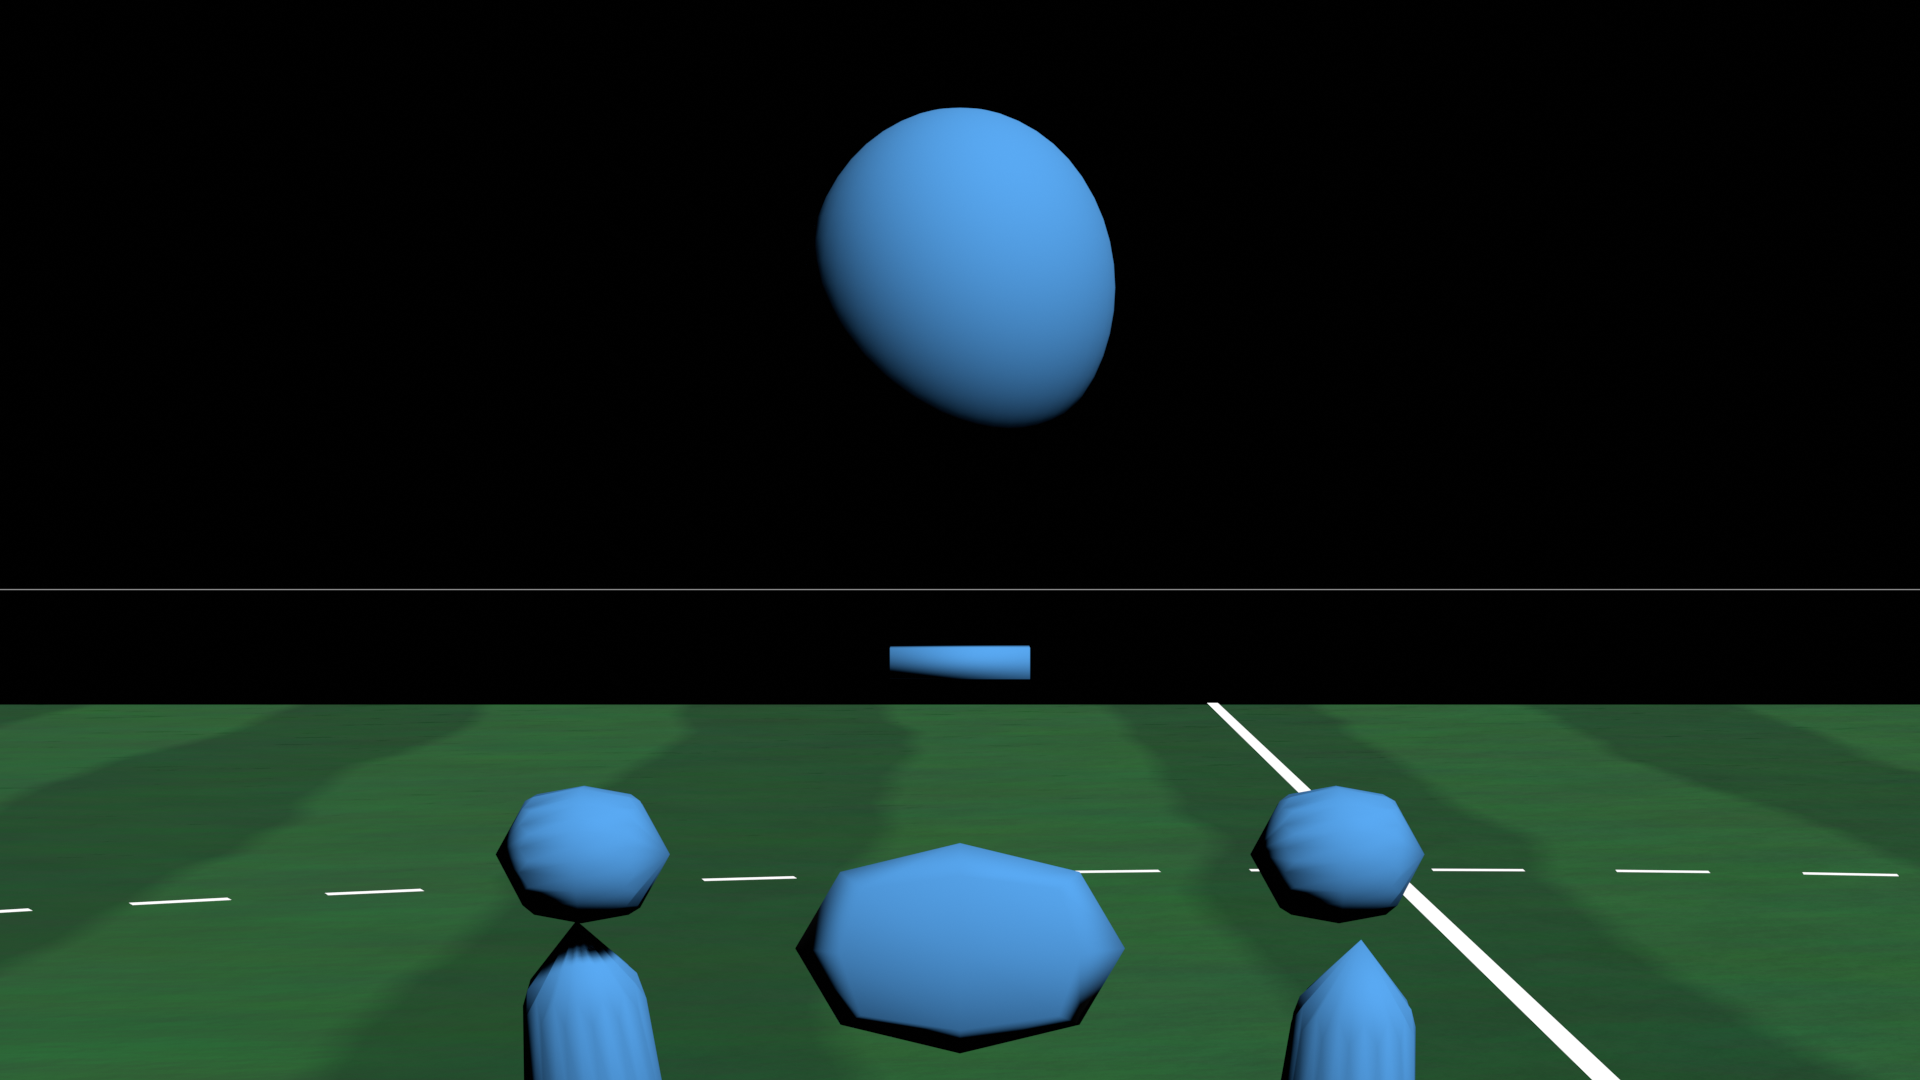
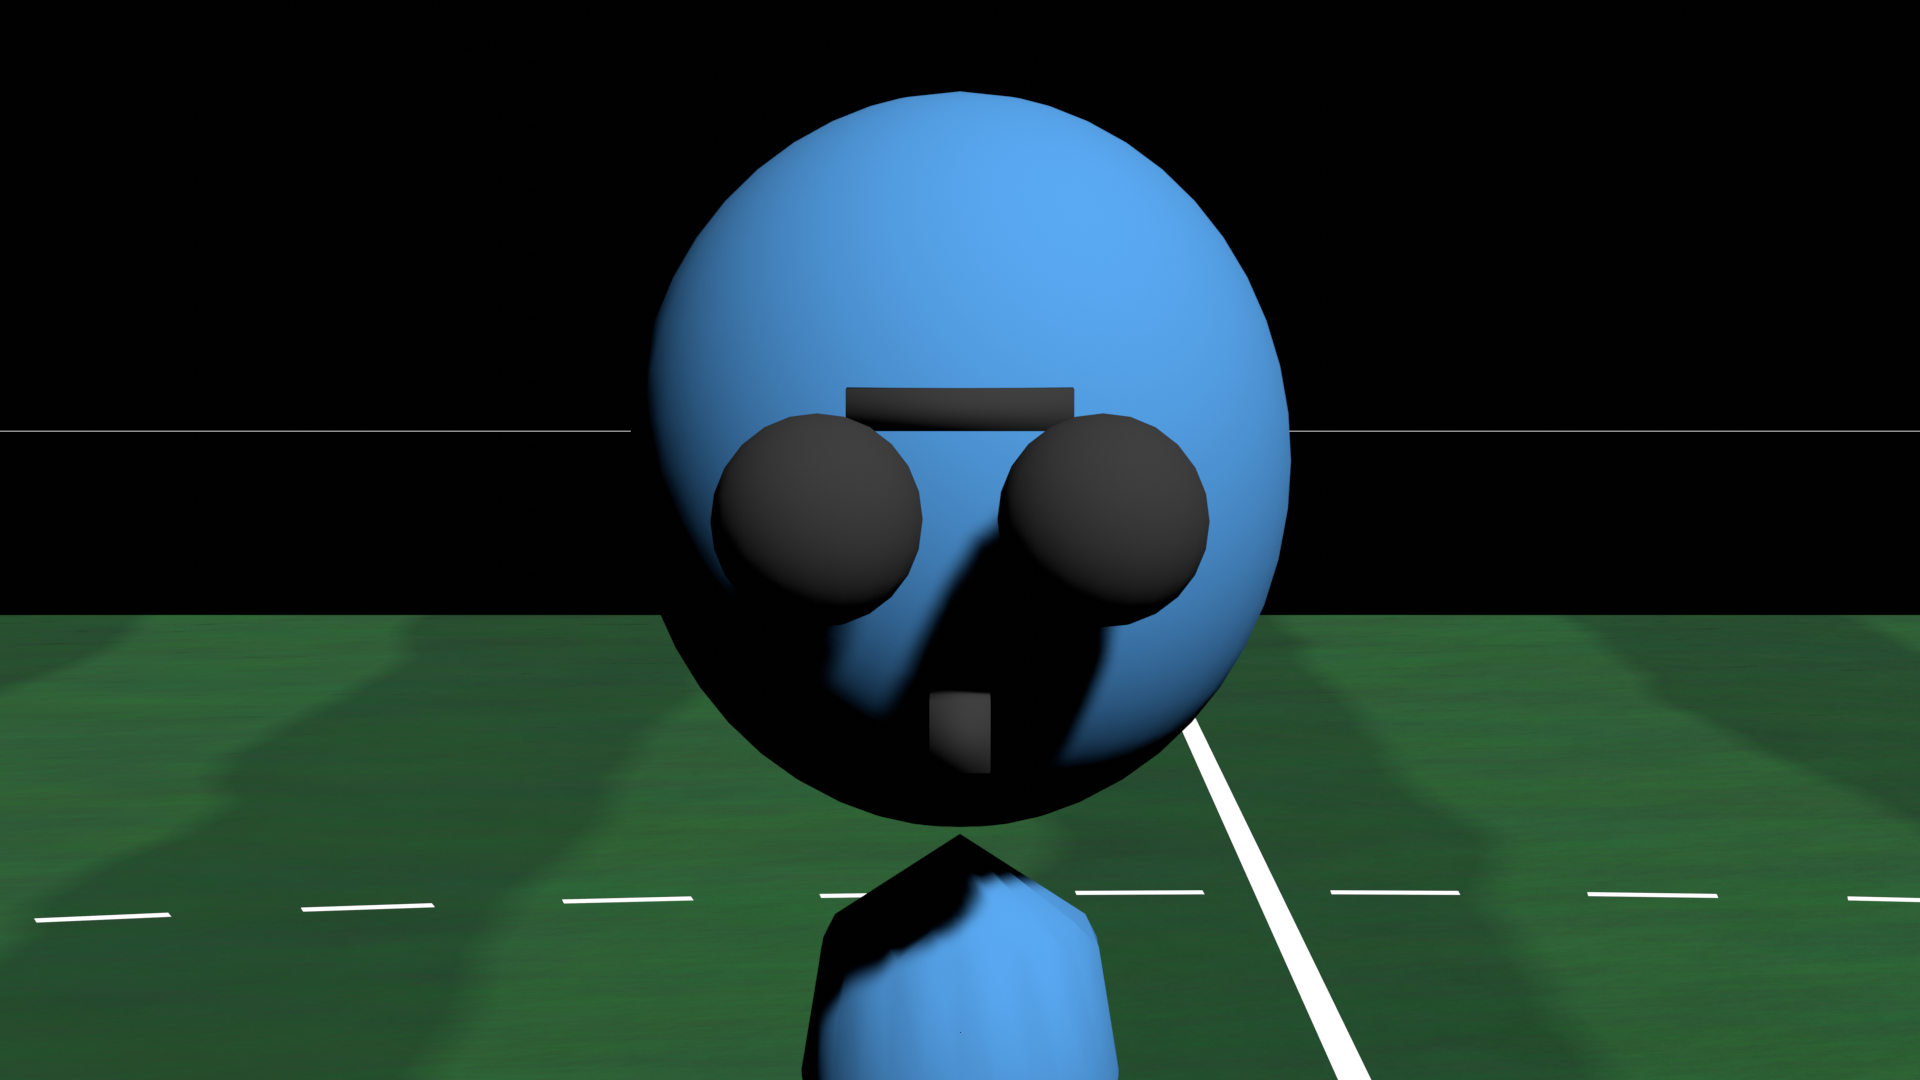
Simplify players to basic humanoids with face and limbs

diff --git a/blender/scenes/build_player.py b/blender/scenes/build_player.py
@@ -1,10 +1,16 @@
 # SPDX-License-Identifier: MIT
-"""再現CGメーカー風 人型キャラ（赤・青）— フィールドスケール対応"""
+"""簡易人型キャラ（赤・青）— 頭＋胴＋手足＋簡易顔
+
+要望に合わせて:
+- 服パーツは作らない
+- 簡易的な顔（鼻・眉）
+- 両手足が付いて「人の形」に見える
+"""
 
 from __future__ import annotations
 
 import math
-from typing import Dict, Literal, Tuple
+from typing import Dict, Tuple
 
 import bpy
 from mathutils import Euler, Vector
@@ -16,9 +22,6 @@ S = _SCALE
 
 TEAM_BLUE = (0.10, 0.40, 0.90, 1.0)
 TEAM_RED = (0.88, 0.12, 0.20, 1.0)
-
-BodyType = Literal["male", "female"]
-
 
 def _make_cg_material(name: str, color: Tuple[float, float, float, float]) -> bpy.types.Material:
     mat = make_flat_material(name, color)
@@ -119,94 +122,88 @@ def _add_sphere(
     return obj
 
 
-def _build_head(
-    name: str,
-    mat: bpy.types.Material,
-    joint: bpy.types.Object,
-    body_type: BodyType,
-) -> None:
-    r = 0.108 * S
-    _add_sphere(f"{name}_head", r, Vector((0, 0, 0.10 * S)), mat, joint, Vector((0.94, 1.0, 1.06)), subdiv=1)
-    # 鼻（前に出る）
+def _build_head(name: str, mat: bpy.types.Material, joint: bpy.types.Object) -> None:
+    """頭＋簡易顔（鼻・眉）"""
+    r = 0.11 * S
+    _add_sphere(
+        f"{name}_head",
+        r,
+        Vector((0, 0, 0.12 * S)),
+        mat,
+        joint,
+        Vector((0.96, 1.0, 1.04)),
+        subdiv=1,
+    )
+    # 顔パーツは少しだけ暗くして視認性を上げる
+    # 目鼻は黒寄りでハッキリ見せる
+    face_mat = _make_cg_material(f"{name}_face_mat", (0.05, 0.05, 0.05, 1.0))
     _add_box(
         f"{name}_nose",
-        Vector((0.032 * S, 0.065 * S, 0.038 * S)),
-        Vector((0, 0.10 * S, 0.06 * S)),
-        mat, joint, subdiv=0,
+        Vector((0.034 * S, 0.075 * S, 0.040 * S)),
+        Vector((0, -0.125 * S, 0.05 * S)),
+        face_mat,
+        joint,
+        subdiv=0,
     )
-    # 眉
     _add_box(
         f"{name}_brow",
-        Vector((0.12 * S, 0.028 * S, 0.024 * S)),
-        Vector((0, 0.085 * S, 0.13 * S)),
-        mat, joint, subdiv=0,
+        Vector((0.13 * S, 0.032 * S, 0.024 * S)),
+        Vector((0, -0.105 * S, 0.14 * S)),
+        face_mat,
+        joint,
+        subdiv=0,
     )
-    # 顎〜口
-    _add_box(
-        f"{name}_mouth",
-        Vector((0.055 * S, 0.03 * S, 0.018 * S)),
-        Vector((0, 0.09 * S, 0.0)),
-        mat, joint, subdiv=0,
+    # 目（小さい球を2つ）
+    _add_sphere(
+        f"{name}_eye_l",
+        0.030 * S,
+        Vector((-0.040 * S, -0.135 * S, 0.11 * S)),
+        face_mat,
+        joint,
+        subdiv=0,
     )
-    if body_type == "female":
-        _add_sphere(
-            f"{name}_hair_vol",
-            r * 0.95,
-            Vector((0, -0.035 * S, 0.12 * S)),
-            mat, joint, Vector((1.02, 0.90, 1.02)), subdiv=1,
-        )
+    _add_sphere(
+        f"{name}_eye_r",
+        0.030 * S,
+        Vector((0.040 * S, -0.135 * S, 0.11 * S)),
+        face_mat,
+        joint,
+        subdiv=0,
+    )
 
 
-def _build_torso_clothing(
-    name: str,
-    mat: bpy.types.Material,
-    parent: bpy.types.Object,
-    body_type: BodyType,
-) -> None:
-    if body_type == "male":
-        # 半袖シャツ（肩幅広め）
-        _add_box(
-            f"{name}_shirt",
-            Vector((0.50 * S, 0.14 * S, 0.32 * S)),
-            Vector((0, 0, 1.04 * S)),
-            mat, parent, subdiv=1,
-        )
-        # 襟元
-        _add_box(
-            f"{name}_collar",
-            Vector((0.18 * S, 0.06 * S, 0.04 * S)),
-            Vector((0, 0.04 * S, 1.22 * S)),
-            mat, parent, subdiv=0,
-        )
-        for side, tag in ((-1, "L"), (1, "R")):
-            _add_capsule(
-                f"{name}_sleeve_{tag}",
-                0.048 * S, 0.12 * S,
-                Vector((side * 0.24 * S, 0, 1.10 * S)),
-                mat, parent, Euler((0, math.pi / 2, 0)), subdiv=1,
-            )
-        hip_w = 0.44 * S
-    else:
-        # 女性：トップス＋くびれ
-        _add_box(
-            f"{name}_top",
-            Vector((0.40 * S, 0.12 * S, 0.30 * S)),
-            Vector((0, 0, 1.06 * S)),
-            mat, parent, subdiv=1,
-        )
-        _add_box(
-            f"{name}_waist",
-            Vector((0.32 * S, 0.10 * S, 0.12 * S)),
-            Vector((0, 0, 0.86 * S)),
-            mat, parent, subdiv=1,
-        )
-        hip_w = 0.38 * S
-
-    _add_box(
-        f"{name}_pants",
-        Vector((hip_w, 0.13 * S, 0.24 * S)),
-        Vector((0, 0, 0.70 * S)),
-        mat, parent, subdiv=1,
+def _build_torso(name: str, mat: bpy.types.Material, parent: bpy.types.Object) -> None:
+    """胴体（服なし・単純形状）"""
+    _add_capsule(
+        f"{name}_torso",
+        0.12 * S,
+        0.70 * S,
+        Vector((0, 0, 0.95 * S)),
+        mat,
+        parent,
+        Euler((0, 0, 0)),
+        subdiv=1,
+    )
+    # 首（頭が浮かないよう接続）
+    _add_capsule(
+        f"{name}_neck",
+        0.055 * S,
+        0.16 * S,
+        Vector((0, 0, 1.29 * S)),
+        mat,
+        parent,
+        Euler((0, 0, 0)),
+        subdiv=1,
+    )
+    _add_capsule(
+        f"{name}_pelvis",
+        0.14 * S,
+        0.22 * S,
+        Vector((0, 0, 0.62 * S)),
+        mat,
+        parent,
+        Euler((0, 0, 0)),
+        subdiv=1,
     )
 
 
@@ -219,13 +216,14 @@ def _build_limb(
     root: bpy.types.Object,
     parts: Dict[str, bpy.types.Object],
 ) -> None:
-    upper_len = (0.27 if is_arm else 0.40) * S
-    lower_len = (0.25 if is_arm else 0.42) * S
-    upper_r = (0.050 if is_arm else 0.070) * S
-    lower_r = (0.040 if is_arm else 0.058) * S
+    upper_len = (0.34 if is_arm else 0.50) * S
+    lower_len = (0.32 if is_arm else 0.54) * S
+    upper_r = (0.060 if is_arm else 0.080) * S
+    lower_r = (0.050 if is_arm else 0.070) * S
 
-    x = axis_sign * ((0.25 if is_arm else 0.11) * S)
-    z = (1.06 if is_arm else 0.60) * S
+    # 体に「くっついて」見える位置
+    x = axis_sign * ((0.22 if is_arm else 0.11) * S)
+    z = (1.24 if is_arm else 0.64) * S
 
     upper_joint = add_empty(f"{name}_{side}_upper_joint", Vector((x, 0, z)), root)
     parts[f"{side}_upper_joint"] = upper_joint
@@ -250,15 +248,15 @@ def _build_limb(
     if is_arm:
         _add_box(
             f"{name}_{side}_hand",
-            Vector((0.05 * S, 0.035 * S, 0.022 * S)),
-            Vector((0, 0, -lower_len)),
+            Vector((0.06 * S, 0.05 * S, 0.028 * S)),
+            Vector((0, 0.03 * S, -lower_len)),
             mat, lower_joint, subdiv=0,
         )
     else:
         _add_box(
-            f"{name}_{side}_shoe",
-            Vector((0.075 * S, 0.15 * S, 0.045 * S)),
-            Vector((0, 0.05 * S, -lower_len)),
+            f"{name}_{side}_foot",
+            Vector((0.085 * S, 0.18 * S, 0.05 * S)),
+            Vector((0, 0.07 * S, -lower_len)),
             mat, lower_joint, subdiv=0,
         )
 
@@ -268,9 +266,8 @@ def build_stick_figure(
     color: Tuple[float, float, float, float],
     location: Vector,
     facing_yaw: float = 0.0,
-    body_type: BodyType = "male",
 ) -> StickFigure:
-    """再現CGメーカー風の立体人型。関節は Empty でポーズ可能。"""
+    """簡易人型。関節は Empty でポーズ可能。"""
     mat = _make_cg_material(f"{name}_mat", color)
     parts: Dict[str, bpy.types.Object] = {}
 
@@ -279,8 +276,8 @@ def build_stick_figure(
 
     head_joint = add_empty(f"{name}_head_joint", Vector((0, 0, 1.36 * S)), root)
     parts["head_joint"] = head_joint
-    _build_head(name, mat, head_joint, body_type)
-    _build_torso_clothing(name, mat, root, body_type)
+    _build_head(name, mat, head_joint)
+    _build_torso(name, mat, root)
 
     _build_limb(name, "arm_l", -1.0, True, mat, root, parts)
     _build_limb(name, "arm_r", 1.0, True, mat, root, parts)
@@ -291,29 +288,29 @@ def build_stick_figure(
 
 
 def apply_idle_pose(fig: StickFigure) -> None:
-    fig.parts["arm_l_upper_joint"].rotation_euler = Euler((0.40, 0, -0.22))
+    fig.parts["arm_l_upper_joint"].rotation_euler = Euler((0.55, 0, -0.38))
     fig.parts["arm_l_lower_joint"].rotation_euler = Euler((0.18, 0, 0))
-    fig.parts["arm_r_upper_joint"].rotation_euler = Euler((0.10, 0, 0.28))
+    fig.parts["arm_r_upper_joint"].rotation_euler = Euler((0.10, 0, 0.38))
     fig.parts["arm_r_lower_joint"].rotation_euler = Euler((0.25, 0, 0))
-    fig.parts["leg_l_upper_joint"].rotation_euler = Euler((-0.06, 0, 0.03))
-    fig.parts["leg_l_lower_joint"].rotation_euler = Euler((0.10, 0, 0))
-    fig.parts["leg_r_upper_joint"].rotation_euler = Euler((0.12, 0, -0.02))
+    fig.parts["leg_l_upper_joint"].rotation_euler = Euler((-0.08, 0, 0.02))
+    fig.parts["leg_l_lower_joint"].rotation_euler = Euler((0.16, 0, 0))
+    fig.parts["leg_r_upper_joint"].rotation_euler = Euler((0.20, 0, -0.03))
     fig.parts["leg_r_lower_joint"].rotation_euler = Euler((-0.05, 0, 0))
 
 
 def build_demo_players() -> Tuple[StickFigure, StickFigure]:
-    """青（男性）・赤（女性）を並べて配置 — アプリ参考画像風。"""
+    """青・赤を見やすい距離で並べて配置"""
     blue = build_stick_figure(
-        "Player_Blue", TEAM_BLUE, Vector((-3.5, 0, 0)),
-        facing_yaw=0.0, body_type="male",
+        "Player_Blue", TEAM_BLUE, Vector((-1.8, 0, 0)),
+        facing_yaw=0.0,
     )
     apply_idle_pose(blue)
 
     red = build_stick_figure(
-        "Player_Red", TEAM_RED, Vector((3.5, 0, 0)),
-        facing_yaw=0.0, body_type="female",
+        "Player_Red", TEAM_RED, Vector((1.8, 0, 0)),
+        facing_yaw=0.0,
     )
     apply_idle_pose(red)
 
-    print(f"Players: 再現CG風 humanoids blue(male) + red(female)  scale={S}")
+    print(f"Players: simple humanoids (head+torso+limbs) blue+red  scale={S}")
     return blue, red

diff --git a/blender/scenes/build_part_field.py b/blender/scenes/build_part_field.py
@@ -424,11 +424,12 @@ def render_players() -> Path:
     cam_data = bpy.data.cameras.new("CamPlayers")
     cam = bpy.data.objects.new("CamPlayers", cam_data)
     bpy.context.collection.objects.link(cam)
+    # 2人がフレーム内に収まる距離にする
     target = Vector((0, 0, 1.05 * S))
-    cam.location = Vector((0, -9.0, 4.8))
+    cam.location = Vector((0, -7.5, 3.2))
     cam.rotation_euler = (target - cam.location).to_track_quat("-Z", "Y").to_euler()
     scene.camera = cam
-    cam.data.lens = 50
+    cam.data.lens = 42
 
     out = RENDER_DIR / "players_mid.png"
     RENDER_DIR.mkdir(parents=True, exist_ok=True)
@@ -455,11 +456,12 @@ def render_players_close() -> Path:
     cam_data = bpy.data.cameras.new("CamPlayersClose")
     cam = bpy.data.objects.new("CamPlayersClose", cam_data)
     bpy.context.collection.objects.link(cam)
-    target = Vector((-3.5, 0, 1.30 * S))
-    cam.location = Vector((-3.5, -5.5, 1.35 * S))
+    # 頭〜胴が入るよう、やや引きで上を見る
+    target = Vector((-1.8, 0.2, 1.45 * S))
+    cam.location = Vector((-1.8, -3.5, 1.55 * S))
     cam.rotation_euler = (target - cam.location).to_track_quat("-Z", "Y").to_euler()
     scene.camera = cam
-    cam.data.lens = 65
+    cam.data.lens = 85
 
     out = RENDER_DIR / "players_close.png"
     scene.render.filepath = str(out)
